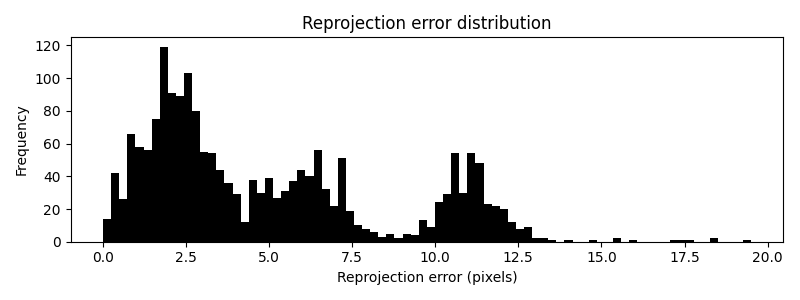
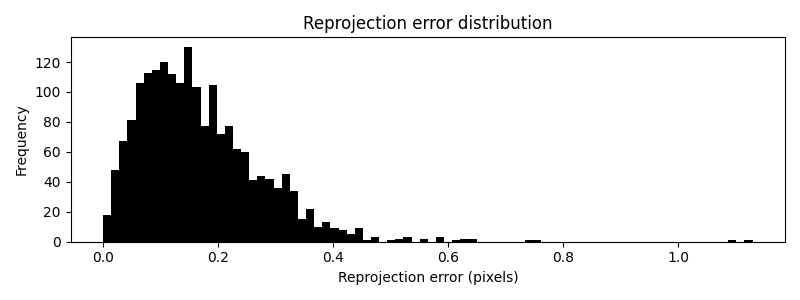
Completed Task 3.1 with Model A

diff --git a/Midterm_Project/python/quanser_ext.py b/Midterm_Project/python/quanser_ext.py
@@ -1,0 +1,77 @@
+import matplotlib.pyplot as plt
+import numpy as np
+from common import *
+
+# Extened quanser for batch optimization
+
+class Quanser_Ext:
+    def __init__(self):
+        self.K = np.loadtxt('C:\\Users\\sindr\\Documents\\UniversiTales\\V22\RobVis\\TTK4255-Robotic-Vision\\Midterm_Project\\data\\K.txt')
+        self.heli_points = np.loadtxt('C:\\Users\\sindr\\Documents\\UniversiTales\\V22\RobVis\\TTK4255-Robotic-Vision\\Midterm_Project\\data\\heli_points.txt').T
+        self.platform_to_camera = np.loadtxt('C:\\Users\\sindr\\Documents\\UniversiTales\\V22\RobVis\\TTK4255-Robotic-Vision\\Midterm_Project\\data\\platform_to_camera.txt')
+
+    def residuals_ModA(self, uv, weights, yaw, pitch, roll, kinetics=26):
+        # "uv" is a 2x7 vector of the pixel coordinates of the detected markers. If a particular marker was not detected, the 'uv' entry may be invalid.
+        # To avoid fuckery, the variable "weights" is a 1x7 vector, where the entry indicates which entires of 'uv' are valid or not. If an entry is invalid,
+        # as determined by reading corresponding index of 'weights', you should multiply the invalid entry by 0 and proceed as usual.
+        # "kinetics" is a K-D vector containing the kinetics for the transformations
+
+        # Compute the helicopter coordinate frames
+        base_to_platform = translate(kinetics[0], kinetics[0], 0.0)@rotate_z(yaw)
+        hinge_to_base    = translate(0.00, 0.00,  kinetics[1])@rotate_y(pitch)
+        arm_to_hinge     = translate(0.00, 0.00, kinetics[2])
+        rotors_to_arm    = translate(kinetics[3], 0.00, kinetics[4])@rotate_x(roll)
+        self.base_to_camera   = self.platform_to_camera@base_to_platform
+        self.hinge_to_camera  = self.base_to_camera@hinge_to_base
+        self.arm_to_camera    = self.hinge_to_camera@arm_to_hinge
+        self.rotors_to_camera = self.arm_to_camera@rotors_to_arm
+
+        # Marker coordinate estimates
+
+        heli_points = np.zeros((4,7))       # Initiate matrix
+        heli_points[-1,:] = 1                   # Add homog. 'ones'
+        heli_points[:3,:] = kinetics[5:26].reshape(3,7)
+
+        # Compute the predicted image location of the markers
+        p1 = self.arm_to_camera @ heli_points[:,:3]            # Remove "self." to use estimates instead
+        p2 = self.rotors_to_camera @ heli_points[:,3:]
+        uv_hat = project(self.K, np.hstack([p1, p2]))
+        self.uv_hat = uv_hat # Save for use in draw()
+
+        #
+        # Tip: Use np.hstack to concatenate the horizontal and vertical residual components
+        # into a single 1D array. Note: The plotting code will not work correctly if you use
+        # a different ordering.
+        ###
+        r = np.hstack(((uv_hat[0,:] - uv[0,:]), (uv_hat[1,:] - uv[1,:])))
+        r[0:7] = r[0:7]*weights
+        r[7:14] = r[7:14]*weights
+        ###
+        return r
+
+
+    def batch_residuals_ModA(self, all_detections, p, K):
+        # "all_detections" contains the 'fasit' for all the marker locations
+        r = np.zeros((len(all_detections), 14))
+        states = p[K:].reshape(len(p[K:])//3, 3)                    # Reshape states into 3xN matrix for convenience
+        for i in range(len(all_detections)):                            # For each frame/image
+            weights = all_detections[i, ::3]                                # 'Which markers are visable / which detections are valid'
+            uv = np.vstack((all_detections[i, 1::3], all_detections[i, 2::3]))  # Extract detections
+
+            r[i, :] = self.residuals_ModA(uv, weights, states[i,0], states[i,1], states[i,2], kinetics=p[0:K])
+        return r.reshape(14*len(all_detections))
+
+    def draw(self, uv, weights, image_number):
+        I = plt.imread('C:\\Users\\sindr\\Documents\\UniversiTales\\V22\RobVis\\TTK4255-Robotic-Vision\\Midterm_Project\\quanser_image_data\\video%04d.jpg' % image_number)
+        plt.imshow(I)
+        plt.scatter(*uv[:, weights == 1], linewidths=1, edgecolor='black', color='white', s=80, label='Observed')
+        plt.scatter(*self.uv_hat, color='red', label='Predicted', s=10)
+        plt.legend()
+        plt.title('Reprojected frames and points on image number %d' % image_number)
+        draw_frame(self.K, self.platform_to_camera, scale=0.05)
+        draw_frame(self.K, self.base_to_camera, scale=0.05)
+        draw_frame(self.K, self.hinge_to_camera, scale=0.05)
+        draw_frame(self.K, self.arm_to_camera, scale=0.05)
+        draw_frame(self.K, self.rotors_to_camera, scale=0.05)
+        plt.xlim([0, I.shape[1]])
+        plt.ylim([I.shape[0], 0])

diff --git a/Midterm_Project/python/part3.py b/Midterm_Project/python/part3.py
@@ -1,0 +1,64 @@
+# Note: You need to install Scipy to run this script. If you don't
+# want to install Scipy, then you can look for a different LM
+# implementation or write your own.
+
+import matplotlib.pyplot as plt
+import numpy as np
+from scipy.optimize import least_squares
+from quanser_ext import Quanser_Ext
+from plot_all import *
+
+all_detections = np.loadtxt('C:\\Users\\sindr\\Documents\\UniversiTales\\V22\\RobVis\\TTK4255-Robotic-Vision\\Midterm_Project\\data\\detections.txt')
+#all_detections = all_detections[:150,:]    ## Adjust number to reduce number of images used 
+all_weights = all_detections[:, ::3]
+num_weights = np.zeros(all_weights.shape[0])
+print(num_weights.shape)
+for j in range(all_weights.shape[0]):
+    num_weights[j] = np.sum(all_weights[j,:])
+quanser = Quanser_Ext()
+
+K       = 26                     # Number of kinetic parameters
+num_s   = 3                         # Number of state parameters
+num_n   = len(all_detections)           # Number of images
+
+l = np.array([0.1145/2, 0.325, -0.050, 0.65, -0.030])           # Initial length estimates = the ones given in task 1
+l = np.zeros(K)
+s = np.zeros(num_s*num_n, dtype='float')                    # Initial state estimates for 'copter angles
+p = np.append(l,s)                                      # Initial p-vector
+
+all_r = []
+all_p = []
+
+# Sparsity pattern
+sparse = np.zeros((14*num_n, K+num_s*num_n))
+sparse[:, :K] = 1
+sparse[:, K:] = np.kron(np.eye(num_n), np.ones((14,3)))
+print("Sparsity matrix: ", sparse.shape)
+
+## Batch run
+resfun = lambda p : quanser.batch_residuals_ModA(all_detections=all_detections, p=p, K=K)
+p = least_squares(resfun, x0=p, jac_sparsity=sparse, verbose=2, max_nfev=30).x
+
+# Plotting
+all_p = np.array(p[K:].reshape((num_n,-1)))
+all_r = np.array(resfun(p).reshape((num_n,-1)))
+plot_all(all_p, all_r, all_detections, subtract_initial_offset=True, num_weights=num_weights)
+
+plt.savefig('out_part3_Mod-A.png')
+plt.show()
+
+"""
+Answer to Task 1.8:
+a)
+Because of the way the _residue_ function has been implemented, with the weights for valid entries, the residue of unobserved markers are set to zero. 
+Followingly, the corresponding index of the jacobian matrix J will be zero too - leading to a potentially singular matrix, which prevents solving for a unique solution.
+The Levenberg-Marquardt method has circumvented this problem by fixing the step length to 1 and adding a term _\mu*I_ to the normal equation. This guarantees that the
+equation remains solvable and that the estimation algorithm can move past the points with insufficient observational data.
+
+b) 
+The added term \mu*I adds \mu*1 to the diagonal elements of J^T*J, with \mu having a variable magnitude. The Levenberg-Marquardt method is set up in such a way that
+the \mu term decreases when approaching the minimum, and increases otherwise. This means that the J^T*J term will dominate when close to the minimum, leveraging the 
+benefits of Newton-Gauss, while having the '+1' term dominate further from the minimum - where Newton-Gauss struggles.
+The downside of this method, is the fixed step length of 1. While Levenberg-Marquardt is robust in ensuring that each step of the optimization remains solvable,
+it suffers from a sort of 'maximum accuracy' - with no guarantees beyond 'minimum + 1'. This must be taken into account when determining the stopping criterion.
+"""
